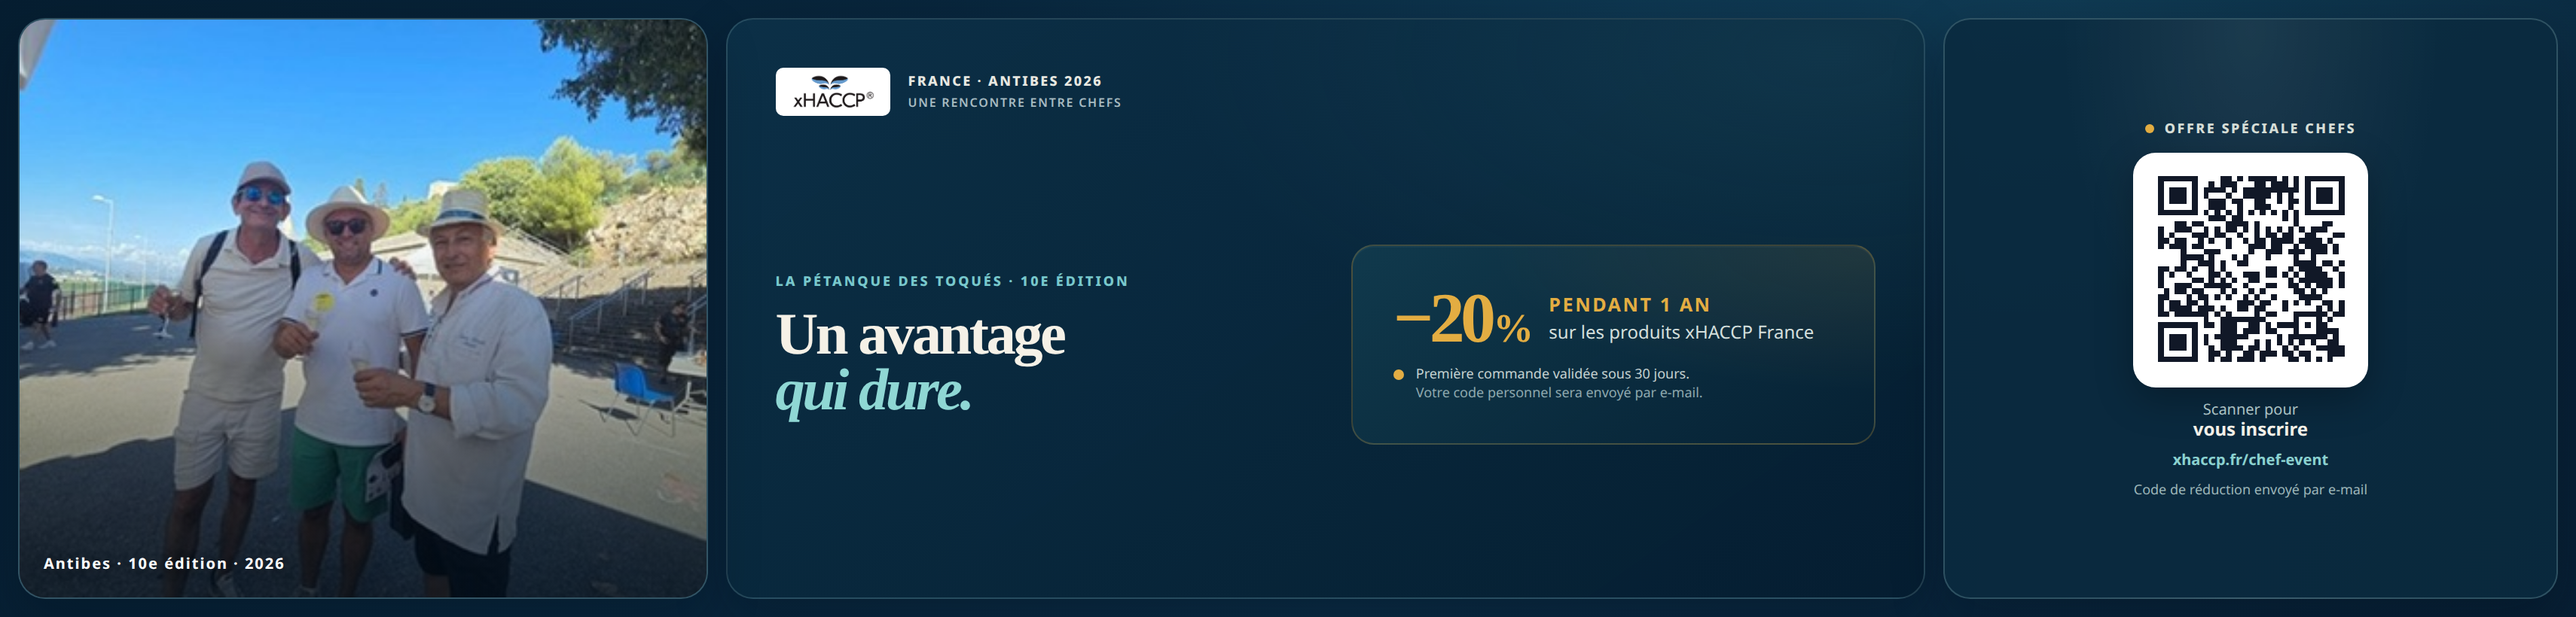
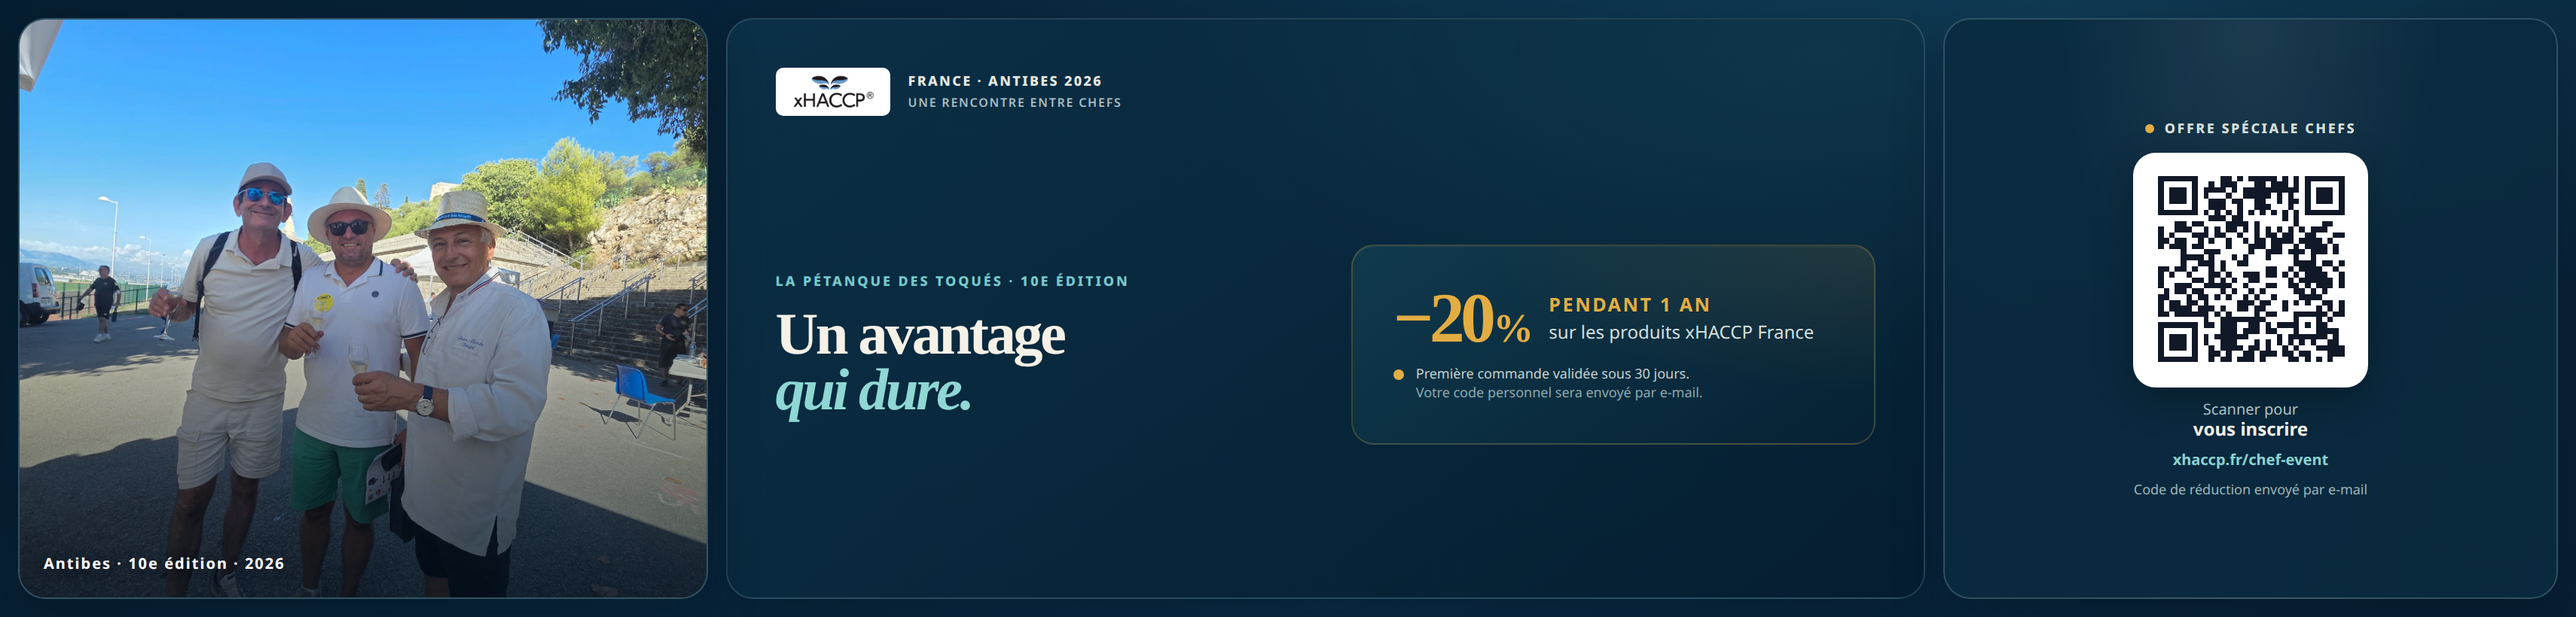
Update chef event mockup assets and configurations
Replit-Commit-Author: Agent

diff --git a/artifacts/mockup-sandbox/src/components/mockups/fr-chef-event/NavyMobileBanner.tsx b/artifacts/mockup-sandbox/src/components/mockups/fr-chef-event/NavyMobileBanner.tsx
@@ -5,7 +5,7 @@ export function NavyMobileBanner() {
     <main className="fr-navy-mobile-export" aria-label="Offre xHACCP France pour La Pétanque des Toqués">
       <figure className="fr-navy-mobile-export__photo">
         <img
-          src="/__mockup/images/chef-home/team.jpeg"
+          src="/__mockup/images/chef-home-offer-sharp-team-original.jpg"
           alt="Les trois participants à La Pétanque des Toqués, à Antibes"
         />
         <figcaption>Antibes · 10e édition · 2026</figcaption>

diff --git a/artifacts/mockup-sandbox/src/components/mockups/fr-chef-event/ExtendedNavy.tsx b/artifacts/mockup-sandbox/src/components/mockups/fr-chef-event/ExtendedNavy.tsx
@@ -6,7 +6,7 @@ export function ExtendedNavy() {
       <section className="fr-extended-navy__hero" aria-label="Offre spéciale chefs">
         <figure className="fr-extended-navy__photo">
           <img
-            src="/__mockup/images/chef-home/team.jpeg"
+            src="/__mockup/images/chef-home-offer-sharp-team-original.jpg"
             alt="Les trois participants à La Pétanque des Toqués, à Antibes"
           />
           <figcaption>Antibes · 10e édition · 2026</figcaption>
